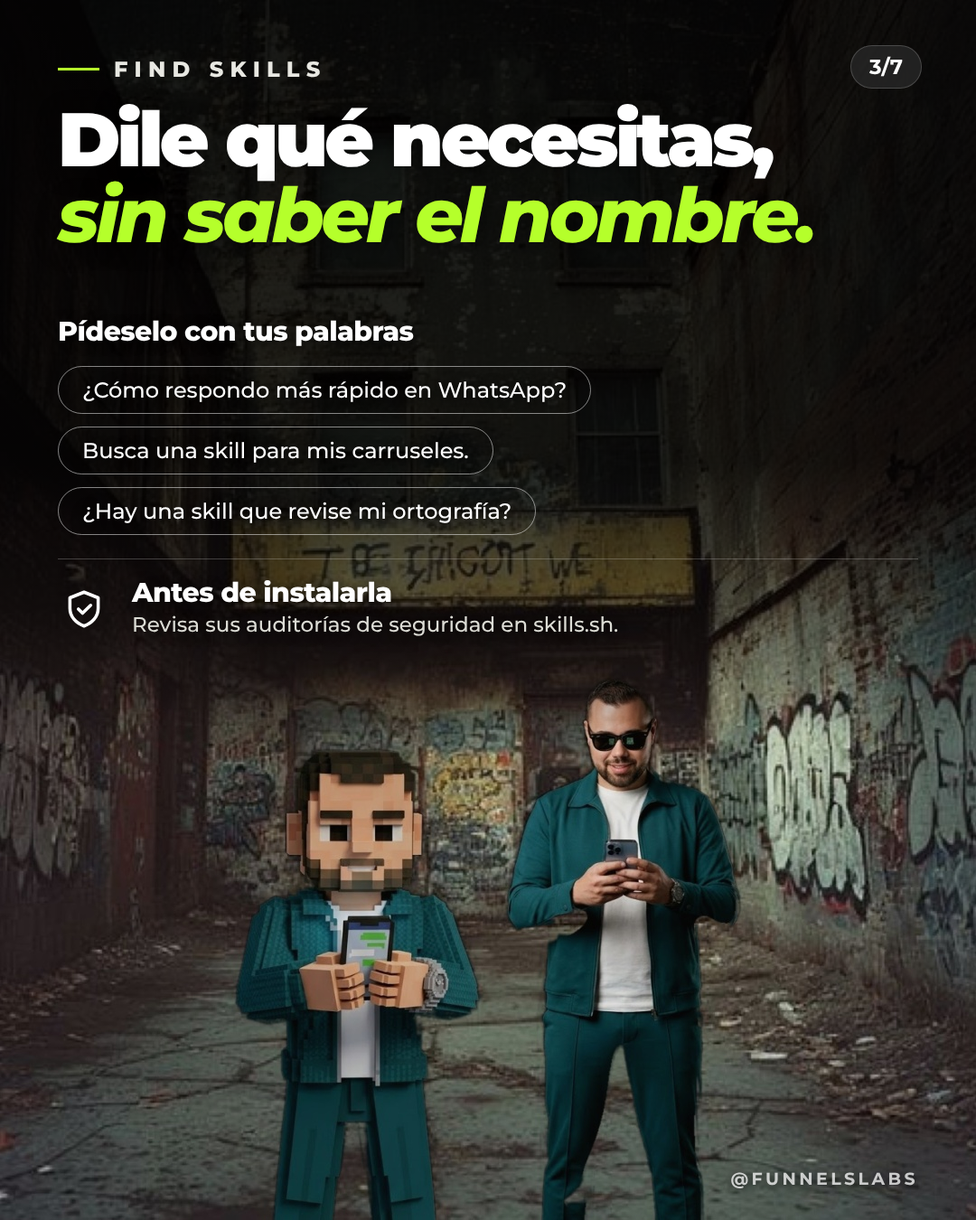
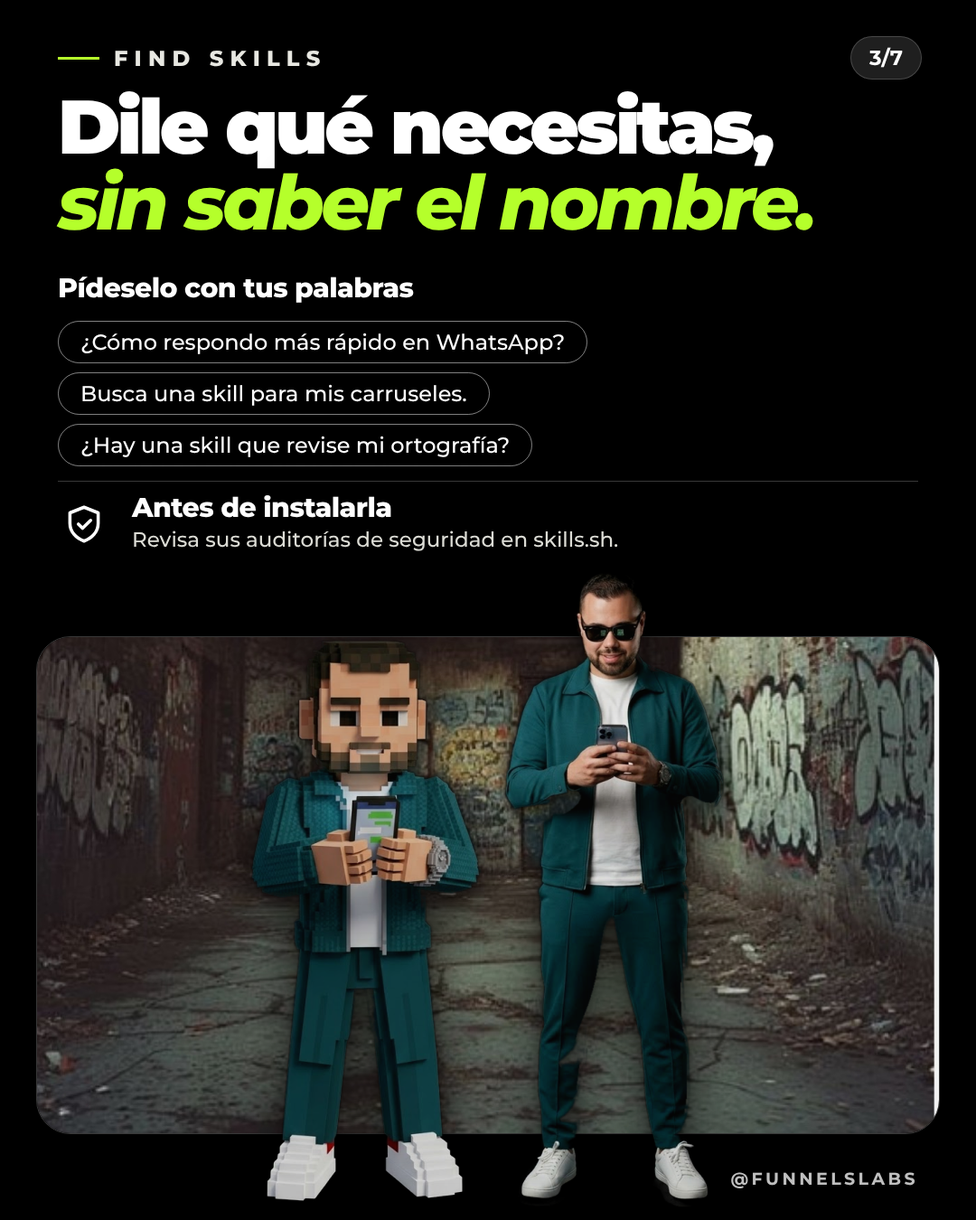
find-skills: escena en marco con personajes que salen de la pantalla, sin recortar pies
Claude-Session: https://claude.ai/code/session_018d4LXHkXweDJXxfN5x99dL

diff --git a/carruseles/find-skills/carrusel.html b/carruseles/find-skills/carrusel.html
@@ -9,19 +9,21 @@ body{background:#333;font-family:"Montserrat",Arial,sans-serif;display:flex;flex
 .ph{position:absolute;-webkit-mask-image:linear-gradient(90deg,transparent 0,#000 9%,#000 91%,transparent 100%);mask-image:linear-gradient(90deg,transparent 0,#000 9%,#000 91%,transparent 100%)}
 .ph img{display:block;width:100%;height:auto}
 .bleed{position:absolute;inset:0;width:100%;height:100%;object-fit:cover}
+.frame{position:absolute;z-index:1;left:40px;width:1000px;border-radius:38px;overflow:hidden;border:1.5px solid rgba(255,255,255,.22);box-shadow:0 30px 70px -30px rgba(0,0,0,.9)}.frame img{display:block;width:100%;height:100%;object-fit:cover}
+.pop{position:absolute;left:0;top:0;width:1080px;height:1350px;z-index:3;filter:drop-shadow(0 22px 26px rgba(0,0,0,.55)) drop-shadow(0 4px 6px rgba(0,0,0,.35))}
 .shade{position:absolute;inset:0;background:linear-gradient(180deg,rgba(0,0,0,.66) 0,rgba(0,0,0,.34) 30%,rgba(0,0,0,0) 48%)}
 .shade.long{background:linear-gradient(180deg,rgba(0,0,0,.88) 0,rgba(0,0,0,.84) 38%,rgba(0,0,0,.55) 50%,rgba(0,0,0,0) 61%)}
-.n{position:absolute;top:50px;right:60px;z-index:5;background:rgba(40,40,40,.78);border:1px solid rgba(255,255,255,.18);color:#fff;font-weight:700;font-size:23px;padding:9px 20px;border-radius:99px}
-.kick{position:absolute;z-index:5;left:64px;top:62px;font-weight:800;font-size:24px;letter-spacing:.3em;text-transform:uppercase;color:#e8e8e2;display:flex;align-items:center;gap:16px}
+.n{position:absolute;top:40px;right:60px;z-index:5;background:rgba(40,40,40,.78);border:1px solid rgba(255,255,255,.18);color:#fff;font-weight:700;font-size:23px;padding:9px 20px;border-radius:99px}
+.kick{position:absolute;z-index:5;left:64px;top:50px;font-weight:800;font-size:24px;letter-spacing:.3em;text-transform:uppercase;color:#e8e8e2;display:flex;align-items:center;gap:16px}
 .kick i{width:46px;height:3px;background:var(--lime);display:block}
-.h{position:absolute;z-index:5;left:64px;right:64px;top:112px;font-weight:900;letter-spacing:-0.045em;line-height:1;text-shadow:0 4px 28px rgba(0,0,0,.45)}
+.h{position:absolute;z-index:5;left:64px;right:64px;top:98px;font-weight:900;letter-spacing:-0.045em;line-height:1;text-shadow:0 4px 28px rgba(0,0,0,.45)}
 .h .l{color:var(--lime);font-style:italic;font-weight:800}
 .h .pill{display:inline-block;background:var(--lime);color:#0a0a0a;border-radius:18px;padding:0 22px 6px;margin-left:6px;text-shadow:none}
-.sub{position:absolute;z-index:5;left:64px;right:64px;top:318px;font-weight:600;font-size:31px;line-height:1.3;color:#ececE6;letter-spacing:-0.01em;text-shadow:0 2px 18px rgba(0,0,0,.6)}
+.sub{position:absolute;z-index:5;left:64px;right:64px;top:304px;font-weight:600;font-size:31px;line-height:1.3;color:#ececE6;letter-spacing:-0.01em;text-shadow:0 2px 18px rgba(0,0,0,.6)}
 .sub b{color:#fff;font-weight:800}
 .panel{position:absolute;z-index:5;left:64px;right:64px}
 .panel{text-shadow:0 2px 14px rgba(0,0,0,.7)}
-.row{display:flex;gap:24px;align-items:center;padding:20px 0;border-bottom:1px solid rgba(255,255,255,.22)}
+.row{display:flex;gap:24px;align-items:center;padding:12px 0;border-bottom:1px solid rgba(255,255,255,.22)}
 .row.last{border-bottom:0}
 .cmp .row{padding:10px 0}.cmp .note{padding-bottom:10px}
 .cols{display:grid;grid-template-columns:repeat(3,1fr);gap:28px;padding:6px 0 0}.cols>div{display:flex;flex-direction:column;gap:6px}.cols svg{width:44px;height:44px;color:#fff;margin-bottom:2px}.cols b{font-weight:800;font-size:27px;letter-spacing:-0.02em}.cols span{font-weight:500;font-size:21px;line-height:1.3;color:#dcdcd5}.cols code{font-family:"Courier New",monospace;font-weight:700;font-size:19px;word-break:break-all}
@@ -30,36 +32,36 @@ body{background:#333;font-family:"Montserrat",Arial,sans-serif;display:flex;flex
 .row span{display:block;font-weight:500;font-size:23px;line-height:1.3;color:#dcdcd5;margin-top:3px}
 .row code,.code{font-family:"Courier New",monospace;font-weight:700}
 .ph2{font-weight:800;font-size:30px;letter-spacing:-0.02em;padding:8px 0 16px}
-.chips{display:flex;flex-direction:column;gap:14px;align-items:flex-start;padding:4px 0 26px;border-bottom:1px solid rgba(255,255,255,.22)}
-.chips span{border:1.5px solid rgba(255,255,255,.5);border-radius:99px;padding:11px 26px;font-weight:500;font-size:24px}
+.chips{display:flex;flex-direction:column;gap:10px;align-items:flex-start;padding:2px 0 16px;border-bottom:1px solid rgba(255,255,255,.22)}
+.chips span{border:1.5px solid rgba(255,255,255,.5);border-radius:99px;padding:8px 24px;font-weight:500;font-size:24px}
 .code{font-size:20px;line-height:1.4;padding:6px 0 10px;color:#fff;word-break:break-all}
-.note{font-size:23px;font-weight:500;color:#dcdcd5;padding:4px 0 22px;border-bottom:1px solid rgba(255,255,255,.22)}
+.note{font-size:23px;font-weight:500;color:#dcdcd5;padding:4px 0 14px;border-bottom:1px solid rgba(255,255,255,.22)}
 .foot{position:absolute;z-index:6;right:64px;bottom:34px;text-align:right;font-weight:700;font-size:19px;letter-spacing:.18em;text-transform:uppercase;color:rgba(255,255,255,.75);text-shadow:0 2px 12px rgba(0,0,0,.9)}
 </style></head><body>
-<section class="slide"><img class="bleed" src="img/asfalto.png"><div class="shade"></div><div class="n">1/7</div><div class="kick"><i></i>Find skills</div><div class="h" style="font-size:88px">Instala una sola skill.<br><span class="l">Que sea esta.</span></div><div class="sub">La más instalada de skills.sh: <b>más de 3 millones</b> de instalaciones.</div><div class="foot"><span>@funnelslabs</span></div></section><section class="slide"><img class="bleed" src="img/f2.jpg"><div class="shade long"></div><div class="n">2/7</div><div class="kick"><i></i>Find skills</div><div class="h" style="font-size:84px">Claude no sabe<br><span class="l">qué skills existen.</span></div>
-<div class="panel" style="top:340px">
+<section class="slide"><img class="bleed" src="img/asfalto.png"><div class="shade"></div><div class="n">1/7</div><div class="kick"><i></i>Find skills</div><div class="h" style="font-size:88px">Instala una sola skill.<br><span class="l">Que sea esta.</span></div><div class="sub">La más instalada de skills.sh: <b>más de 3 millones</b> de instalaciones.</div><div class="foot"><span>@funnelslabs</span></div></section><section class="slide"><div class="frame" style="top:648px;height:607px"><img src="img/b2.jpg"></div><img class="pop" src="img/p2.png"><div class="n">2/7</div><div class="kick"><i></i>Find skills</div><div class="h" style="font-size:84px">Claude no sabe<br><span class="l">qué skills existen.</span></div>
+<div class="panel" style="top:292px">
 <div class="row"><span class="ic"><svg viewBox="0 0 24 24" fill="none" stroke="currentColor" stroke-width="1.7" stroke-linecap="round" stroke-linejoin="round"><path d="M4 5.5c3-1.4 5.7-1.2 8 .6 2.3-1.8 5-2 8-.6v13c-3-1.4-5.7-1.2-8 .6-2.3-1.8-5-2-8-.6z"/><path d="M12 6.1v13"/></svg></span><div><b>Qué es una skill</b><span>Instrucciones que le enseñan una tarea nueva a Claude.</span></div></div>
 <div class="row"><span class="ic"><svg viewBox="0 0 24 24" fill="none" stroke="currentColor" stroke-width="1.7" stroke-linecap="round" stroke-linejoin="round"><circle cx="10.5" cy="10.5" r="6"/><path d="M15 15l5.5 5.5"/></svg></span><div><b>Qué hace find-skills</b><span>Busca la que necesitas y te ayuda a instalarla.</span></div></div>
 <div class="row last"><span class="ic"><svg viewBox="0 0 24 24" fill="none" stroke="currentColor" stroke-width="1.7" stroke-linecap="round" stroke-linejoin="round"><circle cx="12" cy="12" r="9"/><path d="M9.3 9.5a2.8 2.8 0 1 1 4.3 2.4c-.9.6-1.6 1.1-1.6 2.3"/><circle cx="12" cy="17.3" r=".6" fill="currentColor"/></svg></span><div><b>Por qué la necesitas</b><span>Sin ella, buscarías skills una por una.</span></div></div>
-</div><div class="foot"><span>@funnelslabs</span></div></section><section class="slide"><img class="bleed" src="img/f3.jpg"><div class="shade long"></div><div class="n">3/7</div><div class="kick"><i></i>Find skills</div><div class="h" style="font-size:84px">Dile qué necesitas,<br><span class="l">sin saber el nombre.</span></div>
-<div class="panel" style="top:340px">
+</div><div class="foot"><span>@funnelslabs</span></div></section><section class="slide"><div class="frame" style="top:704px;height:551px"><img src="img/b3.jpg"></div><img class="pop" src="img/p3.png"><div class="n">3/7</div><div class="kick"><i></i>Find skills</div><div class="h" style="font-size:84px">Dile qué necesitas,<br><span class="l">sin saber el nombre.</span></div>
+<div class="panel" style="top:292px">
 <div class="ph2">Pídeselo con tus palabras</div>
 <div class="chips"><span>¿Cómo respondo más rápido en WhatsApp?</span><span>Busca una skill para mis carruseles.</span><span>¿Hay una skill que revise mi ortografía?</span></div>
 <div class="row last"><span class="ic"><svg viewBox="0 0 24 24" fill="none" stroke="currentColor" stroke-width="1.7" stroke-linecap="round" stroke-linejoin="round"><path d="M12 3l7.5 3v5.5c0 4.5-3.2 8-7.5 9.5-4.3-1.5-7.5-5-7.5-9.5V6z"/><path d="M9 12l2.2 2.2L15.5 10"/></svg></span><div><b>Antes de instalarla</b><span>Revisa sus auditorías de seguridad en skills.sh.</span></div></div>
-</div><div class="foot"><span>@funnelslabs</span></div></section><section class="slide"><img class="bleed" src="img/f4.jpg"><div class="shade"></div><div class="n">4/7</div><div class="kick"><i></i>Find skills</div><div class="h" style="font-size:96px">Una skill para<br><span class="l">encontrarlas todas.</span></div><div class="sub">Tú le dices qué necesitas. Ella busca por ti.</div><div class="foot"><span>@funnelslabs</span></div></section><section class="slide"><img class="bleed" src="img/f5.jpg"><div class="shade long"></div><div class="n">5/7</div><div class="kick"><i></i>Find skills</div><div class="h" style="font-size:84px">Instálala con<br><span class="l">un solo comando.</span></div>
-<div class="panel cmp" style="top:340px">
+</div><div class="foot"><span>@funnelslabs</span></div></section><section class="slide"><div class="frame" style="top:500px;height:755px"><img src="img/b4.jpg"></div><img class="pop" src="img/p4.png"><div class="n">4/7</div><div class="kick"><i></i>Find skills</div><div class="h" style="font-size:96px">Una skill para<br><span class="l">encontrarlas todas.</span></div><div class="sub">Tú le dices qué necesitas. Ella busca por ti.</div><div class="foot"><span>@funnelslabs</span></div></section><section class="slide"><div class="frame" style="top:684px;height:571px"><img src="img/b5.jpg"></div><img class="pop" src="img/p5.png"><div class="n">5/7</div><div class="kick"><i></i>Find skills</div><div class="h" style="font-size:84px">Instálala con<br><span class="l">un solo comando.</span></div>
+<div class="panel cmp" style="top:292px">
 <div class="code">npx skills add vercel-labs/skills --skill find-skills -a claude-code -g -y</div>
 <div class="note">Pégalo en tu terminal.</div>
-<div class="ph2" style="margin-top:22px">3 formas de buscar</div>
+<div class="ph2" style="margin-top:12px">3 formas de buscar</div>
 <div class="cols">
 <div><svg viewBox="0 0 24 24" fill="none" stroke="currentColor" stroke-width="1.7" stroke-linecap="round" stroke-linejoin="round"><path d="M4 5h16v11H9.5L5 20v-4H4z"/></svg><b>En Claude</b><span>Pídeselo como hablas.</span></div>
 <div><svg viewBox="0 0 24 24" fill="none" stroke="currentColor" stroke-width="1.7" stroke-linecap="round" stroke-linejoin="round"><rect x="3" y="4.5" width="18" height="15" rx="2.5"/><path d="M7 10l3 2.5L7 15M12.5 15H17"/></svg><b>En la terminal</b><span><code>npx skills find [palabra]</code></span></div>
 <div><svg viewBox="0 0 24 24" fill="none" stroke="currentColor" stroke-width="1.7" stroke-linecap="round" stroke-linejoin="round"><rect x="3" y="4.5" width="18" height="15" rx="2.5"/><path d="M3 9.5h18"/><circle cx="6" cy="7" r=".5" fill="currentColor"/><circle cx="8.2" cy="7" r=".5" fill="currentColor"/></svg><b>En la web</b><span>skills.sh: las más usadas y las nuevas.</span></div>
 </div>
-</div><div class="foot"><span>@funnelslabs</span></div></section><section class="slide"><img class="bleed" src="img/f6.jpg"><div class="shade long"></div><div class="n">6/7</div><div class="kick"><i></i>Find skills</div><div class="h" style="font-size:88px">Hazla tuya,<br><span class="l">con tus reglas.</span></div>
-<div class="panel" style="top:340px">
+</div><div class="foot"><span>@funnelslabs</span></div></section><section class="slide"><div class="frame" style="top:648px;height:607px"><img src="img/b6.jpg"></div><img class="pop" src="img/p6.png"><div class="n">6/7</div><div class="kick"><i></i>Find skills</div><div class="h" style="font-size:88px">Hazla tuya,<br><span class="l">con tus reglas.</span></div>
+<div class="panel" style="top:292px">
 <div class="row"><span class="ic"><svg viewBox="0 0 24 24" fill="none" stroke="currentColor" stroke-width="1.7" stroke-linecap="round" stroke-linejoin="round"><circle cx="12" cy="12" r="9"/><path d="M10.5 9.5L12.5 8v8"/></svg></span><div><b>1 · Encuentra la skill</b><span>find-skills te muestra la más parecida a lo que haces.</span></div></div>
 <div class="row"><span class="ic"><svg viewBox="0 0 24 24" fill="none" stroke="currentColor" stroke-width="1.7" stroke-linecap="round" stroke-linejoin="round"><path d="M4 20l1-4L16.5 4.5a2 2 0 0 1 3 3L8 19z"/><path d="M14.5 6.5l3 3"/></svg></span><div><b>2 · Pídele a Claude que la adapte</b><span>Cuéntale cómo es tu negocio.</span></div></div>
 <div class="row last"><span class="ic"><svg viewBox="0 0 24 24" fill="none" stroke="currentColor" stroke-width="1.7" stroke-linecap="round" stroke-linejoin="round"><path d="M3.5 7.5a2 2 0 0 1 2-2H10l2 2.5h6.5a2 2 0 0 1 2 2V17a2 2 0 0 1-2 2h-13a2 2 0 0 1-2-2z"/><rect x="9.5" y="12.5" width="5" height="4" rx=".8"/></svg></span><div><b>3 · Guárdala con otro nombre</b><span>Así no pierdes tus cambios al actualizarla.</span></div></div>
-</div><div class="foot"><span>@funnelslabs</span></div></section><section class="slide"><img class="bleed" src="img/f7.jpg"><div class="shade"></div><div class="n">7/7</div><div class="kick"><i></i>Find skills</div><div class="h" style="font-size:92px">Escribe <span class="pill">SKILLS</span><br><span class="l">y te envío la guía.</span></div><div class="sub">Con el paso a paso para instalarla y adaptarla a tu negocio.</div><div class="foot"><span>@funnelslabs</span></div></section>
+</div><div class="foot"><span>@funnelslabs</span></div></section><section class="slide"><div class="frame" style="top:500px;height:755px"><img src="img/b7.jpg"></div><img class="pop" src="img/p7.png"><div class="n">7/7</div><div class="kick"><i></i>Find skills</div><div class="h" style="font-size:92px">Escribe <span class="pill">SKILLS</span><br><span class="l">y te envío la guía.</span></div><div class="sub">Con el paso a paso para instalarla y adaptarla a tu negocio.</div><div class="foot"><span>@funnelslabs</span></div></section>
 </body></html>

diff --git a/carruseles/find-skills/generar.py b/carruseles/find-skills/generar.py
@@ -17,7 +17,8 @@ def row(k,t,d,last=False): return f'<div class="row{" last" if last else ""}"><s
 
 def photo(n,W,T,dx=0,extra=''):
     return f'<div class="ph" style="width:{W}px;top:{T}px;left:{(1080-W)//2+dx}px;{extra}"><img src="img/{n}-c.png"></div>'
-def BG(n): return f'<img class="bleed" src="img/f{n}.jpg"><div class="shade{" long" if n in (2,3,5,6) else ""}"></div>'
+FT={2:648,3:704,5:684,6:648,4:500,7:500}
+def BG(n): return f'<div class="frame" style="top:{FT[n]}px;height:{1255-FT[n]}px"><img src="img/b{n}.jpg"></div><img class="pop" src="img/p{n}.png">'
 def head(i,l1,l2,sub=None,size=88):
     s=f'<div class="n">{i}/7</div><div class="kick"><i></i>Find skills</div><div class="h" style="font-size:{size}px">{l1}<br><span class="l">{l2}</span></div>'
     if sub: s+=f'<div class="sub">{sub}</div>'
@@ -29,14 +30,14 @@ S=[]
 S.append(f'''<section class="slide"><img class="bleed" src="img/asfalto.png"><div class="shade"></div>{head(1,'Instala una sola skill.','Que sea esta.','La más instalada de skills.sh: <b>más de 3 millones</b> de instalaciones.',88)}{foot}</section>''')
 # 2 qué es
 S.append(f'''<section class="slide">{BG(2)}{head(2,'Claude no sabe','qué skills existen.',None,84)}
-<div class="panel" style="top:340px">
+<div class="panel" style="top:292px">
 {row('book','Qué es una skill','Instrucciones que le enseñan una tarea nueva a Claude.')}
 {row('search','Qué hace find-skills','Busca la que necesitas y te ayuda a instalarla.')}
 {row('help','Por qué la necesitas','Sin ella, buscarías skills una por una.',True)}
 </div>{foot}</section>''')
 # 3 cuéntale
 S.append(f'''<section class="slide">{BG(3)}{head(3,'Dile qué necesitas,','sin saber el nombre.',None,84)}
-<div class="panel" style="top:340px">
+<div class="panel" style="top:292px">
 <div class="ph2">Pídeselo con tus palabras</div>
 <div class="chips"><span>¿Cómo respondo más rápido en WhatsApp?</span><span>Busca una skill para mis carruseles.</span><span>¿Hay una skill que revise mi ortografía?</span></div>
 {row('shield','Antes de instalarla','Revisa sus auditorías de seguridad en skills.sh.',True)}
@@ -45,10 +46,10 @@ S.append(f'''<section class="slide">{BG(3)}{head(3,'Dile qué necesitas,','sin s
 S.append(f'''<section class="slide">{BG(4)}{head(4,'Una skill para','encontrarlas todas.','Tú le dices qué necesitas. Ella busca por ti.',96)}{foot}</section>''')
 # 5 instalar
 S.append(f'''<section class="slide">{BG(5)}{head(5,'Instálala con','un solo comando.',None,84)}
-<div class="panel cmp" style="top:340px">
+<div class="panel cmp" style="top:292px">
 <div class="code">npx skills add vercel-labs/skills --skill find-skills -a claude-code -g -y</div>
 <div class="note">Pégalo en tu terminal.</div>
-<div class="ph2" style="margin-top:22px">3 formas de buscar</div>
+<div class="ph2" style="margin-top:12px">3 formas de buscar</div>
 <div class="cols">
 <div>{ic('chat')}<b>En Claude</b><span>Pídeselo como hablas.</span></div>
 <div>{ic('term')}<b>En la terminal</b><span><code>npx skills find [palabra]</code></span></div>
@@ -57,7 +58,7 @@ S.append(f'''<section class="slide">{BG(5)}{head(5,'Instálala con','un solo com
 </div>{foot}</section>''')
 # 6 hazla tuya
 S.append(f'''<section class="slide">{BG(6)}{head(6,'Hazla tuya,','con tus reglas.',None,88)}
-<div class="panel" style="top:340px">
+<div class="panel" style="top:292px">
 {row('one','1 · Encuentra la skill','find-skills te muestra la más parecida a lo que haces.')}
 {row('pencil','2 · Pídele a Claude que la adapte','Cuéntale cómo es tu negocio.')}
 {row('folder','3 · Guárdala con otro nombre','Así no pierdes tus cambios al actualizarla.',True)}
@@ -73,19 +74,21 @@ body{background:#333;font-family:"Montserrat",Arial,sans-serif;display:flex;flex
 .ph{position:absolute;-webkit-mask-image:linear-gradient(90deg,transparent 0,#000 9%,#000 91%,transparent 100%);mask-image:linear-gradient(90deg,transparent 0,#000 9%,#000 91%,transparent 100%)}
 .ph img{display:block;width:100%;height:auto}
 .bleed{position:absolute;inset:0;width:100%;height:100%;object-fit:cover}
+.frame{position:absolute;z-index:1;left:40px;width:1000px;border-radius:38px;overflow:hidden;border:1.5px solid rgba(255,255,255,.22);box-shadow:0 30px 70px -30px rgba(0,0,0,.9)}.frame img{display:block;width:100%;height:100%;object-fit:cover}
+.pop{position:absolute;left:0;top:0;width:1080px;height:1350px;z-index:3;filter:drop-shadow(0 22px 26px rgba(0,0,0,.55)) drop-shadow(0 4px 6px rgba(0,0,0,.35))}
 .shade{position:absolute;inset:0;background:linear-gradient(180deg,rgba(0,0,0,.66) 0,rgba(0,0,0,.34) 30%,rgba(0,0,0,0) 48%)}
 .shade.long{background:linear-gradient(180deg,rgba(0,0,0,.88) 0,rgba(0,0,0,.84) 38%,rgba(0,0,0,.55) 50%,rgba(0,0,0,0) 61%)}
-.n{position:absolute;top:50px;right:60px;z-index:5;background:rgba(40,40,40,.78);border:1px solid rgba(255,255,255,.18);color:#fff;font-weight:700;font-size:23px;padding:9px 20px;border-radius:99px}
-.kick{position:absolute;z-index:5;left:64px;top:62px;font-weight:800;font-size:24px;letter-spacing:.3em;text-transform:uppercase;color:#e8e8e2;display:flex;align-items:center;gap:16px}
+.n{position:absolute;top:40px;right:60px;z-index:5;background:rgba(40,40,40,.78);border:1px solid rgba(255,255,255,.18);color:#fff;font-weight:700;font-size:23px;padding:9px 20px;border-radius:99px}
+.kick{position:absolute;z-index:5;left:64px;top:50px;font-weight:800;font-size:24px;letter-spacing:.3em;text-transform:uppercase;color:#e8e8e2;display:flex;align-items:center;gap:16px}
 .kick i{width:46px;height:3px;background:var(--lime);display:block}
-.h{position:absolute;z-index:5;left:64px;right:64px;top:112px;font-weight:900;letter-spacing:-0.045em;line-height:1;text-shadow:0 4px 28px rgba(0,0,0,.45)}
+.h{position:absolute;z-index:5;left:64px;right:64px;top:98px;font-weight:900;letter-spacing:-0.045em;line-height:1;text-shadow:0 4px 28px rgba(0,0,0,.45)}
 .h .l{color:var(--lime);font-style:italic;font-weight:800}
 .h .pill{display:inline-block;background:var(--lime);color:#0a0a0a;border-radius:18px;padding:0 22px 6px;margin-left:6px;text-shadow:none}
-.sub{position:absolute;z-index:5;left:64px;right:64px;top:318px;font-weight:600;font-size:31px;line-height:1.3;color:#ececE6;letter-spacing:-0.01em;text-shadow:0 2px 18px rgba(0,0,0,.6)}
+.sub{position:absolute;z-index:5;left:64px;right:64px;top:304px;font-weight:600;font-size:31px;line-height:1.3;color:#ececE6;letter-spacing:-0.01em;text-shadow:0 2px 18px rgba(0,0,0,.6)}
 .sub b{color:#fff;font-weight:800}
 .panel{position:absolute;z-index:5;left:64px;right:64px}
 .panel{text-shadow:0 2px 14px rgba(0,0,0,.7)}
-.row{display:flex;gap:24px;align-items:center;padding:20px 0;border-bottom:1px solid rgba(255,255,255,.22)}
+.row{display:flex;gap:24px;align-items:center;padding:12px 0;border-bottom:1px solid rgba(255,255,255,.22)}
 .row.last{border-bottom:0}
 .cmp .row{padding:10px 0}.cmp .note{padding-bottom:10px}
 .cols{display:grid;grid-template-columns:repeat(3,1fr);gap:28px;padding:6px 0 0}.cols>div{display:flex;flex-direction:column;gap:6px}.cols svg{width:44px;height:44px;color:#fff;margin-bottom:2px}.cols b{font-weight:800;font-size:27px;letter-spacing:-0.02em}.cols span{font-weight:500;font-size:21px;line-height:1.3;color:#dcdcd5}.cols code{font-family:"Courier New",monospace;font-weight:700;font-size:19px;word-break:break-all}
@@ -94,10 +97,10 @@ body{background:#333;font-family:"Montserrat",Arial,sans-serif;display:flex;flex
 .row span{display:block;font-weight:500;font-size:23px;line-height:1.3;color:#dcdcd5;margin-top:3px}
 .row code,.code{font-family:"Courier New",monospace;font-weight:700}
 .ph2{font-weight:800;font-size:30px;letter-spacing:-0.02em;padding:8px 0 16px}
-.chips{display:flex;flex-direction:column;gap:14px;align-items:flex-start;padding:4px 0 26px;border-bottom:1px solid rgba(255,255,255,.22)}
-.chips span{border:1.5px solid rgba(255,255,255,.5);border-radius:99px;padding:11px 26px;font-weight:500;font-size:24px}
+.chips{display:flex;flex-direction:column;gap:10px;align-items:flex-start;padding:2px 0 16px;border-bottom:1px solid rgba(255,255,255,.22)}
+.chips span{border:1.5px solid rgba(255,255,255,.5);border-radius:99px;padding:8px 24px;font-weight:500;font-size:24px}
 .code{font-size:20px;line-height:1.4;padding:6px 0 10px;color:#fff;word-break:break-all}
-.note{font-size:23px;font-weight:500;color:#dcdcd5;padding:4px 0 22px;border-bottom:1px solid rgba(255,255,255,.22)}
+.note{font-size:23px;font-weight:500;color:#dcdcd5;padding:4px 0 14px;border-bottom:1px solid rgba(255,255,255,.22)}
 .foot{position:absolute;z-index:6;right:64px;bottom:34px;text-align:right;font-weight:700;font-size:19px;letter-spacing:.18em;text-transform:uppercase;color:rgba(255,255,255,.75);text-shadow:0 2px 12px rgba(0,0,0,.9)}
 '''
 html=f'''<!doctype html><html lang="es"><head><meta charset="utf-8"><title>Find skills — Funnels Labs</title>

diff --git a/carruseles/find-skills/fondos.py b/carruseles/find-skills/fondos.py
@@ -1,41 +1,36 @@
-# Compone los personajes (recortes bg/cut-*.png) sobre las fotos de fondo (bg/orig-*.jpg)
-# y deja un fondo 1080x1350 por slide en img/f<N>.jpg
+# Escena en marco + personajes "saliendo" de la pantalla.
+# Para cada slide genera: img/b<N>.jpg (fondo del marco) e img/p<N>.png (personajes, capa con alfa).
 import cv2, numpy as np, os
 from PIL import Image
 os.chdir(os.path.dirname(os.path.abspath(__file__)))
 W,H=1080,1350
-# slide: (fondo, personaje, y0 del recorte original, ancho, top, dx, ajustes del fondo)
-PT={2:694,3:752,5:692,6:694}  # y de la cabeza = borde inferior del panel + 16
-FEET=1335
+FX0,FX1,FB,FEET=40,1040,1255,1335          # marco: x, borde inferior; pies (salen por debajo del marco)
+# bg: foto de fondo, ytop: y de la cabeza, ft: borde superior del marco
 CFG={
- 4:dict(bg=1,ch='brazos',   ytop=432,feet=1420,dx=0,shift=0.0,bright=.92),
- 2:dict(bg=2,ch='silla-lado',ytop=PT[2],feet=1500,dx=0,shift=1.0,bright=.90),
- 3:dict(bg=3,ch='chat',     ytop=PT[3],feet=1500,dx=0,shift=1.0,bright=.95),
- 5:dict(bg=4,ch='caminando',ytop=PT[5],feet=1500,dx=0,shift=1.0,bright=.85,billboard=True),
- 6:dict(bg=5,ch='modelo',   ytop=PT[6],feet=1500,dx=0,shift=1.0,bright=.95),
- 7:dict(bg=6,ch='abrazo',   ytop=452,feet=1420,dx=0,shift=0.0,bright=1.0,floor=True),
+ 2:dict(bg=2,ch='silla-lado',ytop=580,ft=648,bright=.90),
+ 3:dict(bg=3,ch='chat',     ytop=636,ft=704,bright=.95),
+ 5:dict(bg=4,ch='caminando',ytop=616,ft=684,bright=.85,billboard=True),
+ 6:dict(bg=5,ch='modelo',   ytop=580,ft=648,bright=.95),
+ 4:dict(bg=1,ch='brazos',   ytop=400,ft=500,bright=.92),
+ 7:dict(bg=6,ch='abrazo',   ytop=400,ft=500,bright=1.0,floor=True),
 }
-def load_bg(n,c):
-    im=cv2.imread(f'bg/orig-{n}.jpg'); h,w=im.shape[:2]
-    im=im[4:h-14,16:w-4]            # quita el margen de la captura
-    if c.get('billboard'):          # tapa el cartel blanco
-        h,w=im.shape[:2]
+def load_bg(n,c,w,h):
+    im=cv2.imread(f'bg/orig-{n}.jpg'); hh,ww=im.shape[:2]
+    im=im[4:hh-14,16:ww-4]                       # quita el margen de la captura
+    if c.get('billboard'):                       # tapa el cartel blanco
         sub=(im[420:900,480:800].min(2)>225).astype(np.uint8)
         sub=cv2.dilate(sub,np.ones((21,21),np.uint8)).astype(bool)
         ring=im[400:920,460:820].reshape(-1,3)[~np.pad(sub,((20,20),(20,20)))[:520,:360].reshape(-1)]
-        col=np.median(ring,0)
-        noise=np.random.default_rng(1).normal(0,3,(480,320,1))
         patch=im[420:900,480:800].astype(np.float32)
-        patch[sub]=(col+noise.repeat(3,2))[sub]
+        patch[sub]=(np.median(ring,0)+np.random.default_rng(1).normal(0,3,(480,320,1)).repeat(3,2))[sub]
         im[420:900,480:800]=np.clip(cv2.GaussianBlur(patch,(0,0),2),0,255).astype(np.uint8)
-    h,w=im.shape[:2]
-    s=max(W/w,H/h); im=cv2.resize(im,(int(w*s)+1,int(h*s)+1),interpolation=cv2.INTER_AREA if s<1 else cv2.INTER_CUBIC)
-    h,w=im.shape[:2]
-    x0=(w-W)//2; y0=int((h-H)*c['shift'])   # shift=1 -> alinea abajo (suelo), 0 -> arriba
-    im=im[y0:y0+H,x0:x0+W].astype(np.float32)*c['bright']
-    if c.get('floor'):              # suelo oscuro para pared sin piso
-        yy=np.linspace(0,1,H)[:,None,None]
-        k=np.clip((yy-0.80)/0.20,0,1)**1.3
+    hh,ww=im.shape[:2]
+    s=max(w/ww,h/hh); im=cv2.resize(im,(int(ww*s)+1,int(hh*s)+1),interpolation=cv2.INTER_AREA if s<1 else cv2.INTER_CUBIC)
+    hh,ww=im.shape[:2]
+    x0=(ww-w)//2; y0=hh-h                          # alineado abajo (suelo)
+    im=im[y0:y0+h,x0:x0+w].astype(np.float32)*c['bright']
+    if c.get('floor'):                             # suelo oscuro para pared sin piso
+        yy=np.linspace(0,1,h)[:,None,None]; k=np.clip((yy-0.78)/0.22,0,1)**1.3
         im=im*(1-0.78*k)+np.array([14,12,10],np.float32)*0.78*k
     return im
 def cut(c):
@@ -47,48 +42,27 @@ def cut(c):
     for i in range(1,n):
         if st[i,4]>2500: keep[lab==i]=1
     shape=keep
-    d_in=cv2.distanceTransform(shape,cv2.DIST_L2,3)
-    d_out=cv2.distanceTransform(1-shape,cv2.DIST_L2,3)
-    # el borde lo decide la luminosidad de la foto original (fondo negro puro): conserva el pelo y no deja halo oscuro
-    key=np.clip((src.max(2)-5)/13,0,1)
-    key=cv2.GaussianBlur(key,(0,0),0.7)
+    d_in=cv2.distanceTransform(shape,cv2.DIST_L2,3); d_out=cv2.distanceTransform(1-shape,cv2.DIST_L2,3)
+    # el borde lo decide la foto original (fondo negro puro): conserva el pelo y no deja halo oscuro
+    key=cv2.GaussianBlur(np.clip((src.max(2)-5)/13,0,1),(0,0),0.7)
     band=np.where(d_in>6,1.0,np.where(d_out<11,key,0.0))
     al=cv2.GaussianBlur(band.astype(np.float32),(0,0),0.6)
-    # quita el negro mezclado en el borde del pelo y la ropa
     rgb=np.where((al<0.98)[...,None],src/np.clip(al,0.65,1)[...,None],src)
     return np.clip(rgb,0,255),al
 def place(rgb,al,c):
     ys,xs=np.where(al>.5); ymin,ymax,xmin,xmax=ys.min(),ys.max(),xs.min(),xs.max()
-    if 'ytop' in c:
-        s=(c.get('feet',FEET)-c['ytop'])/(ymax-ymin); top=int(c['ytop']-ymin*s); left=int(W/2+c['dx']-(xmin+xmax)/2*s)
-    else:
-        s=c['w']/rgb.shape[1]; left=(W-c['w'])//2+c['dx']; top=int(c['top']-c['y0']*s)
-    nw,nh=int(rgb.shape[1]*s),int(rgb.shape[0]*s)
-    rgb=cv2.resize(rgb,(nw,nh),interpolation=cv2.INTER_AREA if s<1 else cv2.INTER_CUBIC); al=cv2.resize(al,(nw,nh),interpolation=cv2.INTER_AREA if s<1 else cv2.INTER_CUBIC)
+    s=(FEET-c['ytop'])/(ymax-ymin); top=int(c['ytop']-ymin*s); left=int(W/2-(xmin+xmax)/2*s)
+    nw,nh=int(rgb.shape[1]*s),int(rgb.shape[0]*s); itp=cv2.INTER_AREA if s<1 else cv2.INTER_CUBIC
+    rgb=cv2.resize(rgb,(nw,nh),interpolation=itp); al=cv2.resize(al,(nw,nh),interpolation=itp)
     R=np.zeros((H,W,3),np.float32); A=np.zeros((H,W),np.float32)
-    ys0,xs0=max(top,0),max(left,0); ys1,xs1=min(top+nh,H),min(left+nw,W)
-    R[ys0:ys1,xs0:xs1]=rgb[ys0-top:ys1-top,xs0-left:xs1-left]; A[ys0:ys1,xs0:xs1]=al[ys0-top:ys1-top,xs0-left:xs1-left]
-    print(c['ch'],'escala',round(s,2),'alto',round((ymax-ymin)*s))
+    y0,x0=max(top,0),max(left,0); y1,x1=min(top+nh,H),min(left+nw,W)
+    R[y0:y1,x0:x1]=rgb[y0-top:y1-top,x0-left:x1-left]; A[y0:y1,x0:x1]=al[y0-top:y1-top,x0-left:x1-left]
+    print(c['ch'],'escala',round(s,2),'alto',round((ymax-ymin)*s),'ancho',round((xmax-xmin)*s))
     return R,A
-def shadow(A):
-    ys,xs=np.where(A>.5); yb=ys.max()
-    if yb>=H-60: return np.zeros_like(A)   # pies recortados por el borde: sin sombra
-    h=110
-    band=A[yb-h:yb+1].copy(); band[:h-55]=0                 # solo la zona de los zapatos
-    band=np.flipud(band); sq=cv2.resize(band,(W,int(band.shape[0]*.22)))
-    sh=np.zeros_like(A); y=yb-8
-    sh[y:y+sq.shape[0],:]=sq[:H-y]
-    sh=cv2.GaussianBlur(sh,(0,0),11)
-    wide=cv2.GaussianBlur(A[yb-30:yb+1].max(0,keepdims=True).repeat(40,0),(0,0),20)  # sombra ancha suave
-    big=np.zeros_like(A); e=min(yb+34,H); big[yb-6:e]=wide[:e-(yb-6)]
-    return np.clip(sh*1.1+big*.5,0,.7)
 for n,c in CFG.items():
-    bg=load_bg(c['bg'],c); rgb,al=cut(c); R,A=place(rgb,al,c)
-    sh=shadow(A)[...,None]
-    bg=bg*(1-sh*0.85)
-    # un poco del color ambiente sobre el personaje, para que no se vea pegado
-    amb=bg.reshape(-1,3).mean(0)
-    R=R*0.93+amb*0.07
-    out=R*A[...,None]+bg*(1-A[...,None])
-    cv2.imwrite(f'img/f{n}.jpg',np.clip(out,0,255).astype(np.uint8),[cv2.IMWRITE_JPEG_QUALITY,95])
-    print('ok',n)
+    fw,fh=FX1-FX0,FB-c['ft']
+    bg=load_bg(c['bg'],c,fw,fh); cv2.imwrite(f'img/b{n}.jpg',np.clip(bg,0,255).astype(np.uint8),[cv2.IMWRITE_JPEG_QUALITY,93])
+    rgb,al=cut(c); R,A=place(rgb,al,c)
+    R=R*0.94+bg.reshape(-1,3).mean(0)*0.06      # un toque del color del ambiente
+    out=np.dstack([np.clip(R,0,255).astype(np.uint8)[...,::-1],np.clip(A*255,0,255).astype(np.uint8)])
+    Image.fromarray(out,'RGBA').save(f'img/p{n}.png')
